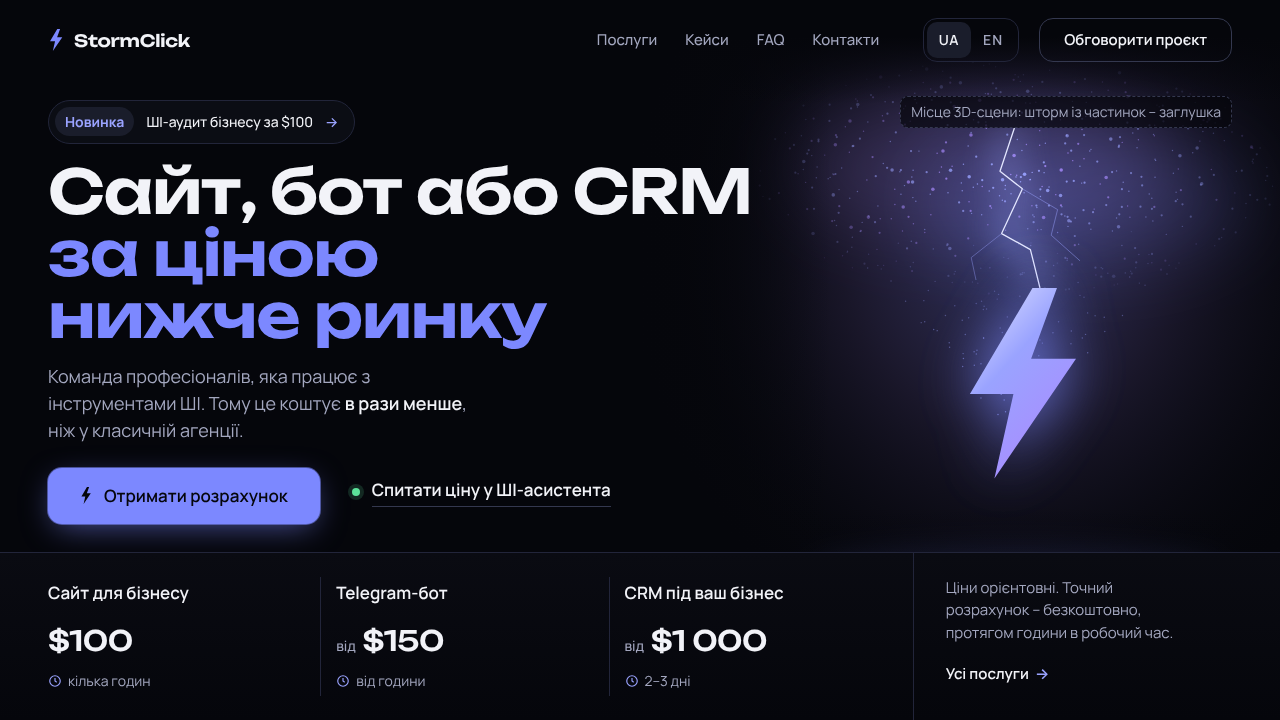
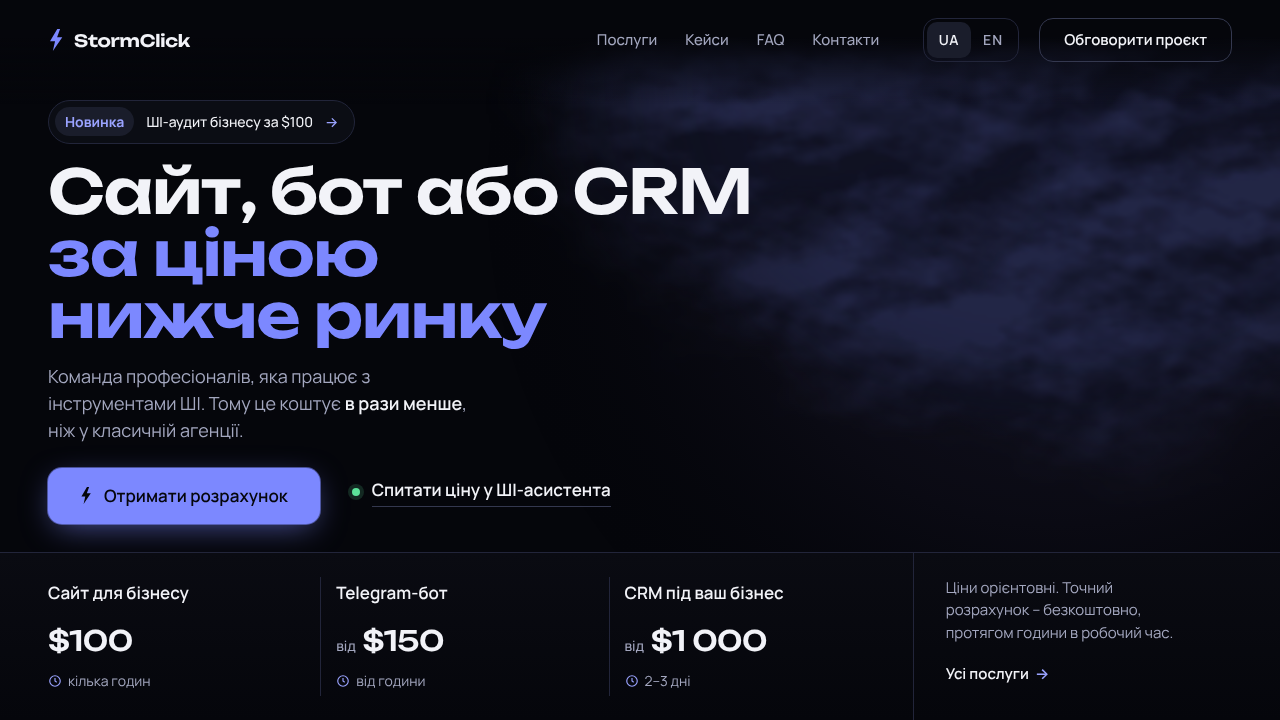
Макет: анімована блискавка на canvas замість частинок
Claude-Session: https://claude.ai/code/session_01SrxZjAM5PvEX4BGjrzztdZ

diff --git a/projects/stormclick-site/design/mockup.html b/projects/stormclick-site/design/mockup.html
@@ -287,7 +287,7 @@ h1 .hl{color:var(--c-accent);display:block}
     W = Math.round(hr.width); H = Math.round(hr.height);
     var mobile = W < 768;
     DPR = Math.min(window.devicePixelRatio || 1, mobile ? 1.5 : 2);
-    var m = mobile ? 12 : 22;               // відступ ядра блискавки від тексту
+    var m = mobile ? 16 : 24;               // відступ ядра блискавки від тексту
     var blocks = [], text = [];
     document.querySelectorAll('.header .container > *, .announce, .actions > *').forEach(function(el){ var r = visibleBox(el); if (r) blocks.push(rel(r, hr)); });
     textLines(document.querySelector('h1'), text, hr);
@@ -303,7 +303,10 @@ h1 .hl{color:var(--c-accent);display:block}
     var side = (W - textRight) >= 300;
     var A = side ? { x: (textRight + W) / 2 + 40, y: header, rx: (W - textRight) * .95 + 80, ry: H * .62 }
                  : { x: W * .8, y: header, rx: W * .72, ry: Math.max(220, textTop - header + 150) };
-    L = { mobile: mobile, m: m, ex: ex, text: all, header: header, proofTop: proofTop, textRight: textRight, side: side, A: A };
+    // Нижня межа удару: збоку – за табло (воно непрозоре), згори – над лідом
+    var leadTop = document.querySelector('.lead').getBoundingClientRect().top - hr.top;
+    var bottom = side ? proofTop + 36 : leadTop - m - (mobile ? 18 : 8);
+    L = { mobile: mobile, m: m, ex: ex, text: all, header: header, proofTop: proofTop, bottom: bottom, textRight: textRight, side: side, A: A };
   }
   function blocked(x, y){
     var ex = L.ex; for (var i = 0; i < ex.length; i++){ var r = ex[i]; if (x > r.l && x < r.r && y > r.t && y < r.b) return true; }
@@ -358,14 +361,14 @@ h1 .hl{color:var(--c-accent);display:block}
     while (steps++ < opt.maxSteps){
       var to = Math.atan2(ty - y, tx - x), dist = Math.hypot(tx - x, ty - y);
       if (dist < opt.sMax) { if (segFree(x, y, tx, ty)) pts.push([tx, ty]); break; }
-      var base = Math.atan2(Math.sin(dir) * .45 + Math.sin(to) * .55, Math.cos(dir) * .45 + Math.cos(to) * .55);
+      var base = Math.atan2(Math.sin(dir) * .2 + Math.sin(to) * .8, Math.cos(dir) * .2 + Math.cos(to) * .8);
       var ok = false;
       for (var k = 0; k < 10; k++){
-        var big = rnd() < .12 ? 1.9 : 1;
+        var big = rnd() < .18 ? 1.8 : 1;
         var a = base + (rnd() - .5) * opt.jit * big * (1 + k * .15);
         var len = opt.sMin + rnd() * (opt.sMax - opt.sMin);
         var nx = x + Math.cos(a) * len, ny = y + Math.sin(a) * len;
-        if (ny < opt.yMin || nx > W + 60) continue;
+        if (ny < opt.yMin || ny > opt.yMax || nx > W + 60) continue;
         if (segFree(x, y, nx, ny)) { x = nx; y = ny; dir = a; ok = true; break; }
       }
       if (!ok) { hit = true; break; }
@@ -376,44 +379,67 @@ h1 .hl{color:var(--c-accent);display:block}
   }
   function pathLen(p){ var s = 0; for (var i = 1; i < p.length; i++) s += Math.hypot(p[i][0] - p[i - 1][0], p[i][1] - p[i - 1][1]); return s; }
 
+  // дрібна ламаність: зміщення середини кожного відрізка (2 рівні), якщо це не заходить у заборонену зону
+  function detail(rnd, pts, amp){
+    for (var lvl = 0; lvl < 2; lvl++){
+      var out = [pts[0]];
+      for (var i = 1; i < pts.length; i++){
+        var a = pts[i - 1], b = pts[i], dx = b[0] - a[0], dy = b[1] - a[1], len = Math.hypot(dx, dy);
+        if (len > 6){
+          var o = (rnd() - .5) * 2 * amp * len, mx = (a[0] + b[0]) / 2 - dy / len * o, my = (a[1] + b[1]) / 2 + dx / len * o;
+          if (!blocked(mx, my)) out.push([mx, my]);
+        }
+        out.push(b);
+      }
+      pts = out;
+    }
+    return pts;
+  }
+
   function makeBolt(rnd){
     var k = L.mobile ? .62 : 1;
-    var y0 = L.header + 4, bottom = L.proofTop + (L.mobile ? 0 : 36); // нижче proofTop – за непрозорим табло
-    var xl = L.side ? Math.max(L.textRight + L.m, W * .5) : W * .5;
+    var y0 = L.header + 10, bottom = L.bottom;  // старт – у затемненні під шапкою, нижче зони її кнопок
+    var xl = L.side ? Math.max(L.textRight + L.m, W * .5) : W * .6;
+    var xr = W - (L.side ? 70 : 22);           // не притискати до краю екрана
     for (var tries = 0; tries < 40; tries++){
-      var sx = xl + 20 + rnd() * (W + (L.side ? -40 : 40) - xl - 20), sy = y0;
+      // старт ближче до середини вільної зони; на вузьких екранах – може бути за правим краєм
+      var sx = L.side ? xl + (xr - xl) * (.2 + .7 * rnd()) : xl + (W + 30 - xl) * (.35 + .65 * rnd()), sy = y0;
       if (blocked(sx, sy)) continue;
       // ціль: найдовша вільна пряма вниз
       var best = null;
       for (var c = 0; c < 160; c++){
-        var tx = xl + rnd() * (W - 14 - xl), ty = sy + 90 * k + rnd() * (bottom - sy - 90 * k);
+        var tx = xl + rnd() * (xr - xl), ty = sy + 90 * k + rnd() * (bottom - sy - 90 * k);
         if (blocked(tx, ty) || !segFree(sx, sy, tx, ty)) continue;
-        var score = (ty - sy) + rnd() * 120 * k - Math.abs(tx - sx) * .25;
+        var score = (ty - sy) + rnd() * 140 * k - Math.abs(tx - sx) * .15;
         if (!best || score > best.s) best = { x: tx, y: ty, s: score };
       }
       if (!best || best.y - sy < 110 * k) continue;
-      var opt = { sMin: 7 * k, sMax: 19 * k, jit: 1.15, maxSteps: 600, yMin: y0 - 8 };
+      var opt = { sMin: 10 * k, sMax: 34 * k, jit: 1.5, maxSteps: 400, yMin: y0 - 8, yMax: bottom };
       var main = walk(rnd, sx, sy, best.x, best.y, opt);
       if (!main.reached) continue;
       var branches = [];
       var pts = main.pts, total = pts.length;
-      for (var i = 2; i < total * .8; i++){
-        if (rnd() > (L.mobile ? .07 : .085)) continue;
+      if (total < 4) continue;
+      var want = 2 + Math.floor(rnd() * 3);    // 2–4 гілки від головного каналу
+      for (var i = 2, guard = 0; i < total * .85 && guard < 400; i = (i + 1 >= total * .85 && branches.length < want) ? 2 : i + 1, guard++){
+        if (branches.length >= want + 2 || rnd() > want / (total * .8)) continue;
         var p = pts[i], q2 = pts[i - 1], md = Math.atan2(p[1] - q2[1], p[0] - q2[0]);
-        var side = rnd() < .5 ? -1 : 1, a = md + side * (.35 + rnd() * .6);
+        var side = rnd() < .5 ? -1 : 1, a = md + side * (.55 + rnd() * .65);
         var remain = pathLen(pts.slice(i)), blen = remain * (.18 + rnd() * .32) + 30 * k;
         var b = walk(rnd, p[0], p[1], p[0] + Math.cos(a) * blen * 1.4, p[1] + Math.sin(a) * blen * 1.4,
-          { sMin: 5 * k, sMax: 13 * k, jit: 1.3, maxSteps: 120, yMin: y0 - 8, budget: blen });
+          { sMin: 8 * k, sMax: 24 * k, jit: 1.5, maxSteps: 120, yMin: y0 - 8, yMax: bottom, budget: blen });
         if (b.pts.length > 2) {
           branches.push({ pts: b.pts, w: .55 + rnd() * .2, depth: 1 });
           if (rnd() < .45 && b.pts.length > 5){
             var j = 2 + Math.floor(rnd() * (b.pts.length - 4)), bp = b.pts[j], a2 = a - side * (.4 + rnd() * .5), l2 = blen * (.3 + rnd() * .3);
             var c2 = walk(rnd, bp[0], bp[1], bp[0] + Math.cos(a2) * l2 * 1.4, bp[1] + Math.sin(a2) * l2 * 1.4,
-              { sMin: 4 * k, sMax: 10 * k, jit: 1.3, maxSteps: 60, yMin: y0 - 8, budget: l2 });
+              { sMin: 6 * k, sMax: 16 * k, jit: 1.5, maxSteps: 60, yMin: y0 - 8, yMax: bottom, budget: l2 });
             if (c2.pts.length > 2) branches.push({ pts: c2.pts, w: .35, depth: 2 });
           }
         }
       }
+      pts = detail(rnd, pts, .2);
+      branches.forEach(function(br){ br.pts = detail(rnd, br.pts, .14); });
       var yEnd = 0; pts.forEach(function(p){ yEnd = Math.max(yEnd, p[1]); });
       branches.forEach(function(b){ b.pts.forEach(function(p){ yEnd = Math.max(yEnd, p[1]); }); });
       return { main: pts, branches: branches, sx: sx, sy: sy, ex: best.x, ey: best.y, yEnd: yEnd };
@@ -445,12 +471,18 @@ h1 .hl{color:var(--c-accent);display:block}
     var c = boltC.getContext('2d'); c.setTransform(DPR, 0, 0, DPR, 0, 0);
     c.lineJoin = 'round'; c.lineCap = 'round'; c.globalCompositeOperation = 'lighter';
     // повітря навколо каналу
-    stroke(c, b.main, 26 * k, 'rgba(124,136,255,.06)', 40 * k, 'rgba(124,136,255,.9)');
+    stroke(c, b.main, 18 * k, 'rgba(124,136,255,.05)', 44 * k, 'rgba(124,136,255,.8)');
     b.branches.forEach(function(br){ taper(c, br.pts, br.w, br.depth === 1 ? .85 : .6, k); });
-    stroke(c, b.main, 9 * k, 'rgba(124,136,255,.22)', 26 * k, 'rgba(169,139,255,1)');
-    stroke(c, b.main, 4 * k, 'rgba(200,206,255,.75)', 10 * k, 'rgba(154,163,255,1)');
-    stroke(c, b.main, 2.3 * k, '#FFFFFF', 3 * k, 'rgba(255,255,255,1)');
+    stroke(c, b.main, 6 * k, 'rgba(124,136,255,.16)', 22 * k, 'rgba(169,139,255,1)');
+    stroke(c, b.main, 3 * k, 'rgba(200,206,255,.7)', 8 * k, 'rgba(154,163,255,1)');
+    stroke(c, b.main, 1.8 * k, '#FFFFFF', 2 * k, 'rgba(255,255,255,1)');
     c.shadowBlur = 0;
+    // верх каналу виходить з хмари, а не обрізаний
+    c.globalCompositeOperation = 'destination-in';
+    var g = c.createLinearGradient(0, b.sy, 0, b.sy + 70);
+    g.addColorStop(0, 'rgba(0,0,0,0)'); g.addColorStop(1, 'rgba(0,0,0,1)');
+    c.fillStyle = g; c.fillRect(0, 0, W, H);
+    c.globalCompositeOperation = 'source-over';
   }
   function renderLit(b){
     // підсвічені хмари навколо початку удару + сяйво вздовж каналу; текст – «вирізаний»
@@ -473,9 +505,13 @@ h1 .hl{color:var(--c-accent);display:block}
     // вирізати м'які «дірки» під текстом і кнопками, щоб спалах не знижував контраст
     c.globalCompositeOperation = 'destination-out';
     c.shadowColor = 'rgba(0,0,0,1)'; c.shadowBlur = 14 / S * (window.devicePixelRatio > 1 ? 1 : 1);
-    L.text.forEach(function(t){ if (t.b < L.header) return; c.shadowOffsetX = cw * 2; c.fillStyle = '#000';
+    L.text.forEach(function(t){ c.shadowOffsetX = cw * 2; c.fillStyle = '#000';
       c.fillRect(t.l / S - 4 - cw * 2, t.t / S - 3, (t.r - t.l) / S + 8, (t.b - t.t) / S + 6); });
     c.shadowBlur = 0; c.shadowOffsetX = 0;
+    // під шапкою спалаху немає: шар плавно гасне від низу шапки до самого верху
+    var gh = c.createLinearGradient(0, 0, 0, (L.header + 40) / S);
+    gh.addColorStop(0, 'rgba(0,0,0,1)'); gh.addColorStop(.55, 'rgba(0,0,0,1)'); gh.addColorStop(1, 'rgba(0,0,0,0)');
+    c.fillStyle = gh; c.fillRect(0, 0, cw, (L.header + 40) / S);
     c.globalCompositeOperation = 'source-over';
   }
 

diff --git a/projects/stormclick-site/design/tokens.css b/projects/stormclick-site/design/tokens.css
@@ -19,13 +19,21 @@
   --c-accent: #7C88FF;        /* електрик: основна кнопка, фокус, акцент заголовка */
   --c-accent-hi: #9AA3FF;     /* hover основної кнопки, акцентний текст дрібного розміру */
   --c-on-accent: #05060B;     /* текст на --c-accent – 6.6:1 */
-  --c-violet: #A98BFF;        /* лише атмосфера: світіння шторму, частинки. Не для UI */
+  --c-violet: #A98BFF;        /* лише атмосфера: зовнішнє світіння блискавки. Не для UI */
   --c-live: #5CE39A;          /* лише статус «онлайн» асистента */
 
   /* Світіння (шторм) */
   --glow-accent: 0 0 0 1px rgba(124, 136, 255, .55), 0 8px 32px -8px rgba(124, 136, 255, .65);
   --glow-storm: radial-gradient(60% 55% at 70% 40%, rgba(124, 136, 255, .28), transparent 70%),
                 radial-gradient(45% 45% at 85% 25%, rgba(169, 139, 255, .22), transparent 70%);
+
+  /* Сцена шторму (перший екран) – кольори canvas. Детально: design-brief.md, «Сцена шторму» */
+  --storm-core: #FFFFFF;                 /* ядро розряду, 1.8 px (360: 1.45 px) */
+  --storm-glow-inner: rgba(200, 206, 255, .7); /* ореол 3 px, blur 8 */
+  --storm-glow-mid: rgba(124, 136, 255, .16);  /* ореол 6 px, тінь #A98BFF blur 22 */
+  --storm-glow-outer: rgba(124, 136, 255, .05); /* повітря 18 px, blur 44 */
+  --storm-cloud-dark: rgb(16, 18, 36);   /* тінь хмари; світлий бік – до rgb(36, 40, 74) */
+  --storm-cloud-lit: rgb(150, 158, 255); /* підсвічена хмара; світлий бік – до rgb(230, 232, 255) */
 
   /* Шрифти */
   --font-display: 'Unbounded', 'Arial Black', system-ui, sans-serif;
@@ -66,6 +74,16 @@
   --ease-out: cubic-bezier(.2, .8, .2, 1);
   --dur-fast: 160ms;
   --dur-base: 320ms;
+
+  /* Ритм удару блискавки (JS читає ці значення з P у mockup.html; тут – для верстки) */
+  --storm-first: 1200ms;      /* перший удар після завантаження */
+  --storm-gap-min: 3000ms;    /* пауза між ударами – випадково 3–6 с */
+  --storm-gap-max: 6000ms;
+  --storm-leader: 60ms;       /* «лідер» проростає згори, 60–110 мс */
+  --storm-pulse-gap: 170ms;   /* між спалахами одного удару, 170–260 мс; 2–3 спалахи */
+  --storm-decay: 65ms;        /* згасання кожного спалаху (експонента, tau) */
+  --storm-tail: 650ms;        /* догоряння каналу після останнього спалаху */
+  --storm-sky-max: .62;       /* максимум підсвітки хмар */
 }
 
 @media (min-width: 768px) {

diff --git a/projects/stormclick-site/design/design-brief.md b/projects/stormclick-site/design/design-brief.md
@@ -1,18 +1,18 @@
 # StormClick – дизайн-рішення першого екрана
 
-Обсяг: шапка + перший екран до першої прокрутки. Ширини: 360 (основна мобільна), 1440 (десктоп), 768 (без поломок). Додатково перевірено 1024×768, 1280×720, 1366×768 (`shots/viewport-*.png`).
-Файли: `tokens.css` – токени, `mockup.html` – макет, `shots/` – скриншоти макета.
+Обсяг: шапка + перший екран до першої прокрутки. Ширини: 360 (основна мобільна), 1440 (десктоп), 768 (без поломок). Додатково перевірено 1024×768, 1280×720, 1366×768, 1920×1080 (`shots/viewport-*.png`, `shots/strike-*.png`, `calm-*`, `reduced-motion-*`, `live-strike-*`).
+Файли: `tokens.css` – токени, `mockup.html` – макет (сцена шторму – робочий код, не заглушка), `shots/` – скриншоти макета.
 Джерела: `docs/brief.md` сайту, `src/i18n.js` (ключі UA), `src/pricing.js`, скриншоти й `report.json` поточного сайту.
 
 ## Напрям – «Розряд»
 
-Перший екран – мить перед ударом: темне небо, хмара електричних частинок збирається в одну точку й б'є блискавкою-логотипом. Удар блискавки = клік, тому на екрані одна «заряджена» річ – електрична кнопка «Отримати розрахунок», усе інше спокійне. Від конкурентів відрізняє не декор, а конкретика: замість абстрактного «працюємо з ШІ» на першому екрані стоїть табло цін і термінів (сайт – $100, кілька годин), яке і є доказом офера «нижче ринку».
+Перший екран – нічна гроза: темні хмари праворуч, і раз на кілька секунд у них б'є справжня блискавка – щоразу інша, з коротким спалахом, що підсвічує хмари. Решта екрана спокійна. Удар блискавки = клік, тому на екрані одна «заряджена» річ – електрична кнопка «Отримати розрахунок», усе інше спокійне. Від конкурентів відрізняє не декор, а конкретика: замість абстрактного «працюємо з ШІ» на першому екрані стоїть табло цін і термінів (сайт – $100, кілька годин), яке і є доказом офера «нижче ринку».
 
 ## Що змінено порівняно з поточним першим екраном і чому
 
 | Було | Стало | Чому |
 |---|---|---|
-| Усе по центру: плашка, заголовок, підзаголовок, кнопки | Ліве вирівнювання тексту, справа – шторм (3D-сцена) | Центроване на 4 рядки читається гірше; ліва колонка + візуал справа дають ієрархію «офер → доказ» і місце для 3D, яке зараз ніде не видно |
+| Усе по центру: плашка, заголовок, підзаголовок, кнопки | Ліве вирівнювання тексту, справа – сцена шторму з блискавкою | Центроване на 4 рядки читається гірше; ліва колонка + візуал справа дають ієрархію «офер → доказ» і місце для шторму, якого зараз ніде не видно |
 | Дві кнопки однакової ваги: «Отримати розрахунок» і «Запитати ШІ-асистента» | Одна основна кнопка (електрична, з блискавкою, світиться) + текстове посилання «Спитати ціну у ШІ-асистента» з зеленою точкою «онлайн» | Зрозуміло, що головне. Асистент лишається на виду, але не конкурує за клік |
 | Основна кнопка біла, як і кнопка в шапці | Основна – електрично-синя `#7C88FF` з темним текстом (6.6:1); кнопка в шапці «Обговорити проєкт» – контурна | Акцентний колір працює лише на цільову дію і прямо втілює «удар = клік». На екрані немає двох «головних» кнопок |
 | Підзаголовок на 40 слів з переліком термінів | Коротший лід (2–3 рядки) + терміни й ціни винесені в смугу доказу | Факти, сховані в абзаці, ніхто не читає; цифри в табло читаються за 3 секунди |
@@ -44,7 +44,7 @@
 
 ## Кольори
 
-Один акцент – електрично-синій. Фіолетовий – фірмовий, але тільки в атмосфері (світіння шторму, частинки, кінець градієнта блискавки), не в UI.
+Один акцент – електрично-синій. Фіолетовий – фірмовий, але тільки в атмосфері (зовнішнє світіння блискавки), не в UI.
 
 | Токен | HEX | Роль | Контраст (WCAG) |
 |---|---|---|---|
@@ -56,7 +56,7 @@
 | `--c-muted` | `#A3A7BF` | лід, підписи, примітки | 8.5:1 на фоні; 8.0:1 на surface |
 | `--c-accent` | `#7C88FF` | основна кнопка, акцентна частина H1 | акцент на фоні 6.6:1; темний текст `#05060B` на кнопці 6.6:1 |
 | `--c-accent-hi` | `#9AA3FF` | hover кнопки, дрібні акценти (стрілки, «Новинка», фокус) | ~8:1 на фоні |
-| `--c-violet` | `#A98BFF` | лише світіння і частинки | не для тексту |
+| `--c-violet` | `#A98BFF` | лише світіння блискавки | не для тексту |
 | `--c-live` | `#5CE39A` | лише точка «онлайн» асистента | 11.7:1 на surface |
 
 Контраст пораховано формулою WCAG 2.x (відносна яскравість). Усі пари тексту – не нижче 4.5:1, більшість – 6.5:1+.
@@ -85,30 +85,60 @@
    - 1440: 4 колонки з вертикальними розділювачами.
    - 768: 3 колонки, примітка рядком нижче.
    - 360: список рядків «назва + термін зліва, ціна справа»; на екрані 360×800 видно всі три рядки, примітка – одразу під згином.
-   - Низькі десктопи (`min-width:1200px` і `max-height:820px`, тобто 1280×720, 1366×768): H1 `clamp(52px, 8.5vh, 76px)`, лід 18 px, ціни 28 px, стиснуті верхні відступи (плашка – 16 px під шапкою, «лід → дії» 24 px), шторм вужчий (50%), щоб блискавка не заходила на смугу. Смуга повністю в першому екрані.
+   - Низькі десктопи (`min-width:1200px` і `max-height:820px`, тобто 1280×720, 1366×768): H1 `clamp(52px, 8.5vh, 76px)`, лід 18 px, ціни 28 px, стиснуті верхні відступи (плашка – 16 px під шапкою, «лід → дії» 24 px), блискавка сама обходить текст (див. «Сцена шторму»). Смуга повністю в першому екрані.
    - Ландшафтний планшет (768–1199 і `max-height:820px`, напр. 1024×768): верхній відступ 64 px, три ціни видно повністю.
-7. **Позначка заглушки** – у макеті завжди видимий підпис у пунктирній рамці «Місце 3D-сцени: шторм із частинок – заглушка» (на 360 – «Заглушка 3D-сцени»), щоб SVG не сприйняли як фінальний візуал. На сайті її немає. Довший опис поведінки сцени – з `?notes`.
-8. **Шторм (3D)** – справа на десктопі (≈62% ширини, від'їжджає під текст через градієнт), на планшеті – угорі праворуч над заголовком, на мобільному – угорі праворуч за заголовком, нижня частина розчиняється у фон. Під шапкою сцена затемнена градієнтом, щоб розряд не проходив під кнопками шапки. Смуга цін має непрозорий фон і лежить над сценою.
+7. **Сцена шторму** – фон усього героя (два `<canvas>` у `.storm`, `aria-hidden`). Хмари і удари – праворуч від тексту на десктопі й 1024×768; на 768 і 360 – угорі праворуч (над і поруч із заголовком, вище ліду). Під шапкою сцена затемнена градієнтом, удар починається нижче її кнопок. Смуга цін має непрозорий фон і лежить над сценою: на десктопі блискавка «б'є за горизонт» – ховається за верхньою лінією табло. Деталі – розділ «Сцена шторму». Короткий опис для погодження – з `?notes`.
 
 Плаваюча кнопка «ШІ-асистент» (зараз у правому нижньому куті) на першому екрані **прихована** – асистент уже є в діях; з'являється після прокрутки за табло. На мобільному вона зараз перекриває контент.
 
-## Зображення і 3D
+## Зображення і сцена
 
 | Місце | Що | Джерело | Пропорції |
 |---|---|---|---|
-| Фон першого екрана, справа / угорі | Хмара частинок (сині й фіолетові точки), що згущується до однієї точки, тонкий розряд і блискавка-логотип з градієнтом `#E4E7FF → #9AA3FF → #A98BFF` і світінням | 3D-сцена Three.js; у макеті – статична SVG-заглушка | 1440: 62% × 100% висоти екрана; 360: 118% × 440 px |
-| Фолбек для слабких пристроїв і `prefers-reduced-motion` | Відео-цикл 6–8 с або статичний кадр тієї самої сцени | рендер 3D-сцени (не сток) | 4:5 (моб.), 16:10 (деск.) |
+| Фон першого екрана, справа / угорі праворуч | Темні грозові хмари і процедурна блискавка | Код на canvas, без зображень, відео і бібліотек (генерація й сток не використовувались) | Займає весь герой; де бити – рахується з розмітки |
 
-**Поведінка 3D-сцени** (для верстки, у макеті не відтворена):
-- у спокої частинки повільно дрейфують, хмара «дихає» (масштаб ±2%, 6 с);
-- курсор нахиляє хмару (паралакс до 6°) і притягує найближчі частинки; на мобільному – гіроскоп вимкнено, лише повільний дрейф;
-- наведення на основну кнопку – короткий спалах розряду в сцені (кнопка = точка удару);
-- скрол: частинки стягуються в блискавку-логотип і далі розлітаються в послуги (за брифом);
-- `prefers-reduced-motion` – статичний кадр, без дрейфу;
-- блискавку і розряд не ставити під текст: зона H1 і ліду має лишатися темною (контраст тексту не нижче 8:1).
+Фото на першому екрані немає і не потрібно: візуал – сама гроза.
 
-**Промпт для фолбек-кадру / відео, якщо робитимуть генерацією** (генерація не дозволена в цій задачі, кредити не витрачались):
-> Dark night sky, pure black background #05060B. A dense cloud of tiny glowing particles in electric blue (#7C88FF) and soft violet (#A98BFF) gathers at the upper right and converges into a single point, from which a thin white-blue lightning discharge strikes down into a sharp geometric lightning bolt symbol with a soft blue glow. Minimal, cinematic, premium tech mood, lots of empty black space on the left, no text, no people, no city, no clouds texture, no lens flare. 16:10, high detail, subtle depth of field.
+## Сцена шторму (рішення власника: «справжня блискавка замість піщинок, раз на кілька секунд»)
+
+Замінює попередню ідею «шторм із частинок» (Three.js) і SVG-заглушку. Робочий код – у `<script>` наприкінці `mockup.html` (~370 рядків, без залежностей); у верстці його можна взяти майже як є, винісши в `storm.js`.
+
+**Шари** (усередині `.storm`, `position:absolute; inset:0; z-index:-1; pointer-events:none`):
+1. `canvas.storm-sky` – статичний: м'яке синє світіння неба + темні хмари. Хмари – value-noise (fBm, 5 октав), рахуються один раз при завантаженні й ресайзі в 1/3 роздільності і масштабуються браузером (м'які краї – це плюс). Маса хмар – еліпс угорі праворуч, до тексту згасає в чорний.
+2. `canvas.storm-fx` – порожній між ударами; під час удару – підсвічені хмари + блискавка.
+3. `.storm::before` – затемнення під шапкою (як і раніше).
+
+**Форма блискавки** (нова на кожен удар):
+- Старт – під шапкою, нижче зони її кнопок, у правій вільній зоні (на вузьких екранах може бути за правим краєм – блискавка «входить» у кадр). Верхні 70 px каналу плавно проявляються – він виходить із хмари, а не обрізаний.
+- Ціль – найдовша вільна пряма вниз: на десктопі до лінії табло (за нього), на 768/360 – до рівня над лідом.
+- Головний канал – випадкове блукання до цілі (кроки 10–34 px, відхилення до ±43°, іноді ±77°), потім дрібна ламаність (зміщення середин відрізків, 2 рівні). 2–4 гілки під кутом 30–70°, тоншають і гаснуть до кінця; гілка може мати свою гілку.
+- **Заборонені зони:** рядки H1 і ліду (кожен рядок окремо, а не весь блок), плашка-анонс, кнопка, посилання на асистента, елементи шапки – з відступом 24 px (на <768 – 16 px). Канал і гілки їх обходять; гілка, що впирається, обривається.
+- Рендер (один раз на удар в офскрін-canvas, далі лише `drawImage`): повітря 18 px `rgba(124,136,255,.05)` blur 44 → ореол 6 px blur 22 тінню `#A98BFF` → ореол 3 px `rgba(200,206,255,.7)` blur 8 → біле ядро 1.8 px. Режим `lighter`.
+- Спалах неба: підсвічений варіант хмар (`rgb(150,158,255)` → до `rgb(230,232,255)` на світлому боці) у радіусі 420 px (360: 220 px) від початку удару + слабке сяйво вздовж каналу. З цього шару «вирізано» м'які прямокутники під кожним рядком тексту і кнопками, а під шапкою він гасне до нуля – спалах не знижує контраст тексту.
+
+**Ритм удару** (параметри – об'єкт `P` у скрипті і `--storm-*` у `tokens.css`):
+
+| Фаза | Тривалість | Яскравість блискавки | Підсвітка хмар |
+|---|---|---|---|
+| Лідер – канал проростає згори | 60–110 мс | 35→60% | до 6% |
+| Спалах 1 | миттєво, згасання τ = 65 мс | 100% | до 62% |
+| Спалахи 2–3 (2 або 3 за удар) | через 170–260 мс кожен | 85%, потім ~55–65% | пропорційно |
+| Догоряння каналу | 650 мс | 30% → 0 | 0 |
+| Пауза до наступного удару | випадково 3–6 с | – | – |
+
+Перший удар – через 1,2 с після завантаження. Удар триває ≤1 с, отже **не більше 3 спалахів за будь-яку секунду** (WCAG 2.3.1); у живій анімації на 1440 виміряно максимум 3 спалахи за секунду (на 360 код той самий; детектор яскравості там спалахи не розрізняв надійно). Підсвітка неба обмежена 62% і лише в зоні шторму – без білого екрана.
+
+**Продуктивність:** без бібліотек; `requestAnimationFrame` – лише під час удару (~1 с), між ударами – `setTimeout`. Пауза, коли вкладка неактивна (`visibilitychange`) і коли герой поза екраном (`IntersectionObserver`). DPR canvas – до 2 (на <768 – до 1.5). Ресайз – перерахунок із затримкою 180 мс.
+
+**Доступність:** `prefers-reduced-motion: reduce` – без таймерів і анімації, один статичний кадр блискавки (м'якший: 80% каналу, 30% неба). Сцена `aria-hidden`, текстової альтернативи не потребує (декор).
+
+**Режими для перевірки скриншотами:** `?strike` – застиглий кадр удару з фіксованим seed (однакова форма щоразу), `?calm` – хмари між ударами, без параметрів – жива анімація. `?notes` – анотація. На сайті ці параметри можна лишити – вони нічого не ламають.
+
+**Як перенести у верстку:**
+- Розмітку `.storm` з двома canvas і CSS з макета – як є; скрипт – окремим файлом з `defer`.
+- Якщо змінюються класи – оновити селектори в `measure()`: `.header .container > *`, `.announce`, `.actions > *`, `h1`, `.lead`, `.proof`. Нові елементи на першому екрані (наприклад, мобільне меню поверх героя чи плаваюча кнопка асистента) додати в заборонені зони.
+- Перераховувати зони після `document.fonts.ready` (шрифт змінює ширину рядків) і при зміні мови UA/EN.
+- Поведінку з брифу сайту «на скролі частинки складаються в логотип» сцена не відтворює – див. питання 7.
 
 ## Компоненти
 
@@ -134,7 +164,8 @@
 - Не додавати другу «залиту» кнопку на перший екран і не робити кнопку в шапці білою – цільова дія одна.
 - Не повертати на перший екран демо-картки з вигаданими KPI («3 дні», «$1 000», «зроблено цього тижня») – на першому екрані лише реальні ціни з прайсу.
 - Не використовувати фіолетовий для тексту, кнопок чи рамок – він лише в атмосфері шторму.
-- Не класти блискавку, розряд чи яскраві частинки під заголовок і лід.
+- Не класти блискавку чи спалах під заголовок, лід, кнопки і шапку; не робити удари частіше, ніж раз на 3 с, і більше 3 спалахів за удар.
+- Не повертати частинки, «скляні» хмари чи блискавку-логотип у сцену – власник обрав справжню блискавку.
 - Не центрувати заголовок і текст на десктопі.
 - Не ставити текст менше 14 px і капси довші за 2–3 літери.
 - Не додавати «скляні» картки, неонові обведення і градієнтний текст у заголовку.
@@ -148,10 +179,12 @@
 4. **Доказ довіри.** На першому екрані немає жодного соціального доказу (кейсів і відгуків поки немає – вони демо). Коли з'являться реальні – що показуємо: кількість проєктів, логотипи, рейтинг? `[уточнити]`
 5. **Колір основної кнопки.** Електрично-синя замість поточної білої – свідома зміна, просимо погодити.
 6. **Куди веде плашка аудиту** – на блок послуг з аудитом чи відразу в чат-асистента (зараз – асистент)? `[уточнити]`
+7. **Бриф сайту і нова сцена.** У `docs/brief.md` перший екран – «шторм із частинок, що на скролі складається в логотип і розлітається в послуги», курсор нахиляє 3D-об'єкти, на слабких пристроях – відео. Після рішення власника перший екран – процедурна блискавка без частинок і без 3D. Що робимо зі скрол-переходом у послуги і реакцією на курсор: прибираємо, чи потрібен інший перехід (наприклад, удар блискавки при наведенні на кнопку)? `[уточнити]`
 
 ## Що не вдалося перевірити
 
 - Сайти-референси (Apple, Linear, Lusion тощо) не зняті: headless-браузер у цьому середовищі не має доступу до зовнішніх сайтів (`ERR_TUNNEL_CONNECTION_FAILED`). Принципи взято з відомих патернів, не зі свіжих скриншотів.
-- 3D-сцена, анімації, стан шапки після прокрутки і мобільне меню не макетувались.
+- Сцена шторму перевірена в headless Chromium (кадри `?strike`/`?calm` на 8 розмірах, жива анімація ~14 с на 1440 і 360, `prefers-reduced-motion`). Не перевірено: Safari/iOS і Firefox, реальна плавність і нагрів на слабкому телефоні, екрани з DPR 3.
+- Стан шапки після прокрутки і мобільне меню не макетувались.
 - Англійська версія тексту на макеті не перевірена – англійські рядки довші, H1 на 360 може зайняти 5 рядків; варто перевірити при верстці.
 - У розпакованій теці поточного сайту кореневий `index.html` – тестова сторінка, а не сайт; справжня розмітка – у `dist/index.html`. Структуру брали звідти.
